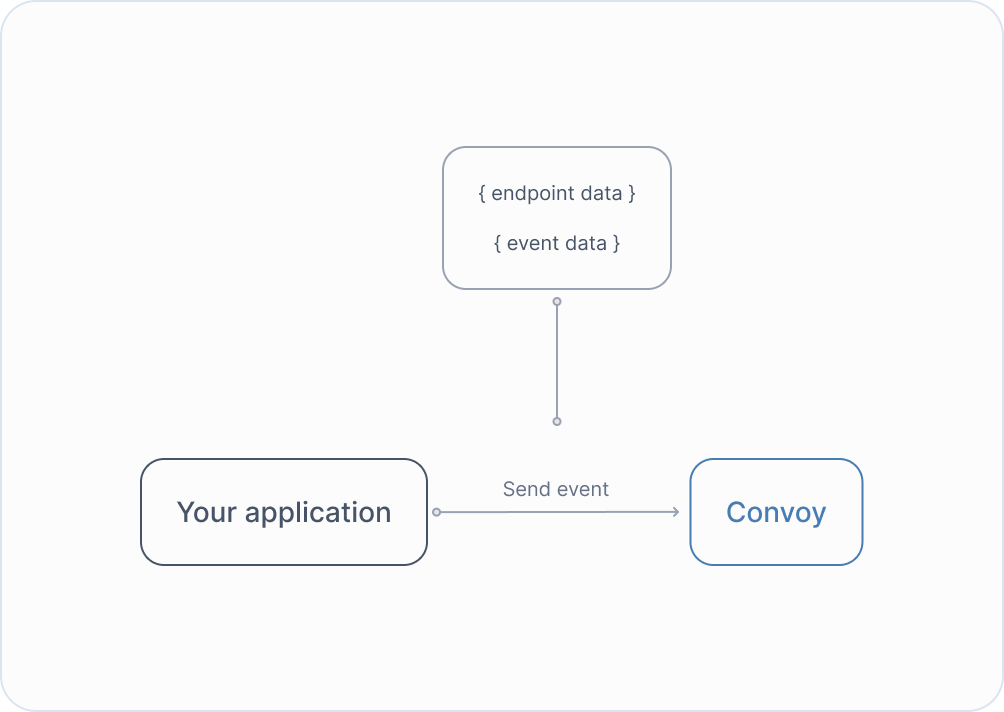
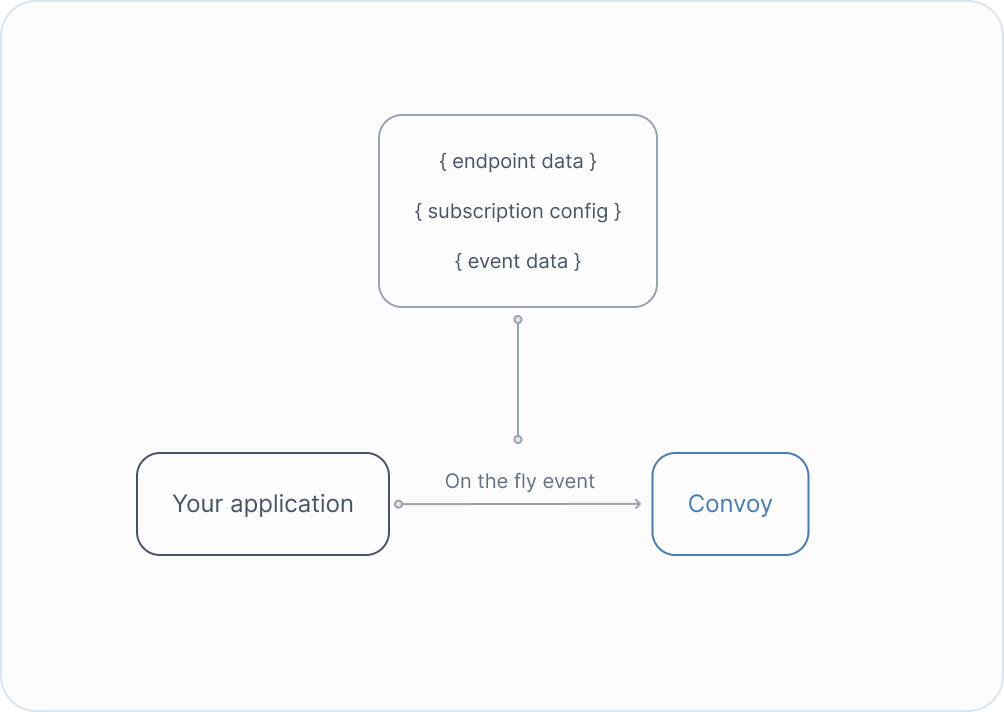
blog: edit on the fly event image

diff --git a/content/blog/meta-events-and-on-the-fly-events.md b/content/blog/meta-events-and-on-the-fly-events.md
@@ -90,7 +90,7 @@ With the addition of the On-The-Fly Event API, you can now do all that in one ca
 
 ![on-the-fly-event-new.png](/blog-assets/on-the-fly-event-new.png)
 
-Convoy will implicitly create the endpoint, create the subscription and then dispatch the event. If an endpoint with the same target url already exists, then Convoy will update all other parameters and endpoint configuration with your provided data. This brings flexibility for use cases where endpoint data is expected to change frequently, allowing their workflow to be more efficient.
+Convoy will implicitly create the endpoint, create the subscription and then dispatch the event. If an endpoint with the same target url already exists, then Convoy will update all other parameters and endpoint configuration with your provided data. This brings flexibility for use cases where endpoint data is expected to change frequently, allowing their workflow to be more efficient. For the subscription, if the subscription config is absent from the request body, default configuration will be applied when the subscription is created newly. If the subscription already exists, the supplied config in the request body will be used as if in an `upsert` operation.
 
 This feature enables developers to dynamically define and update endpoint information on the fly, providing greater adaptability in their applications. In a dynamic environment or rapidly evolving system, this feature becomes invaluable. Developers can easily modify endpoint information as needed through a single call, ensuring that the endpoint data in Convoy remains up to date.
 
